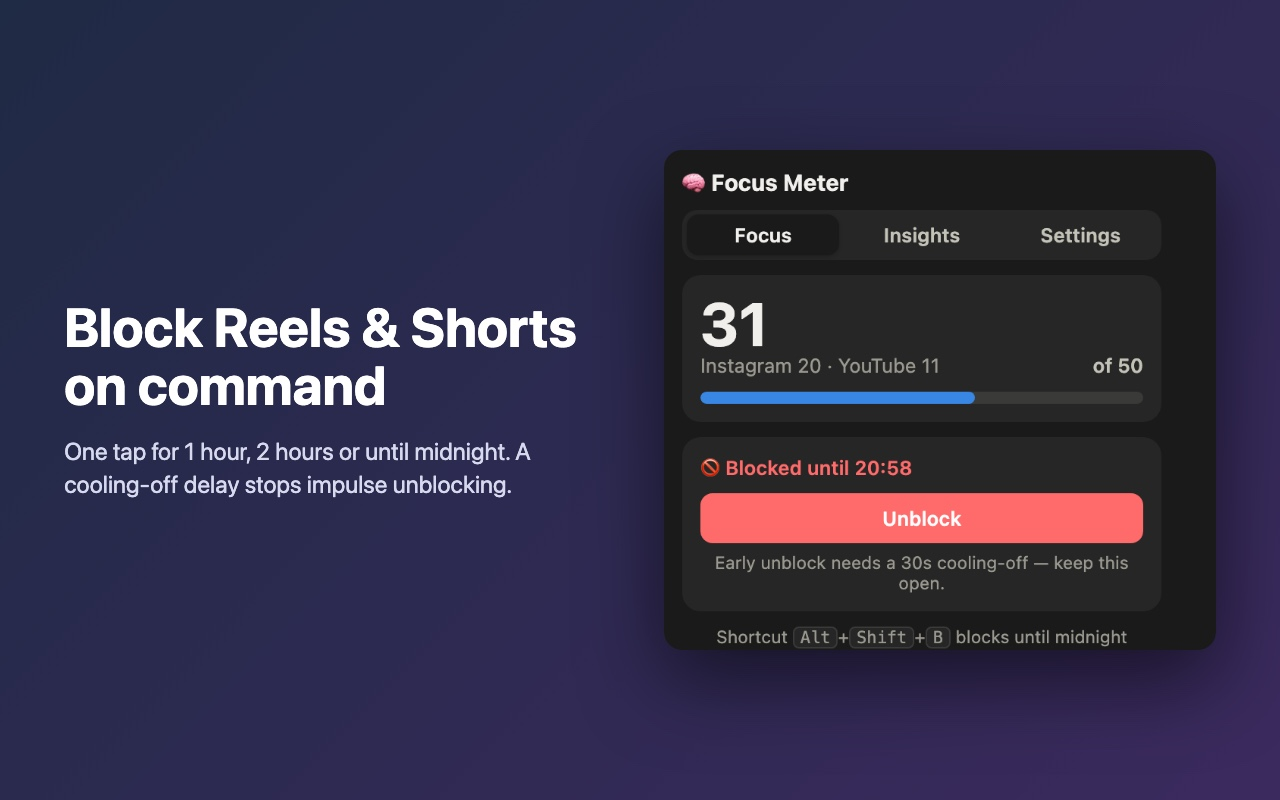
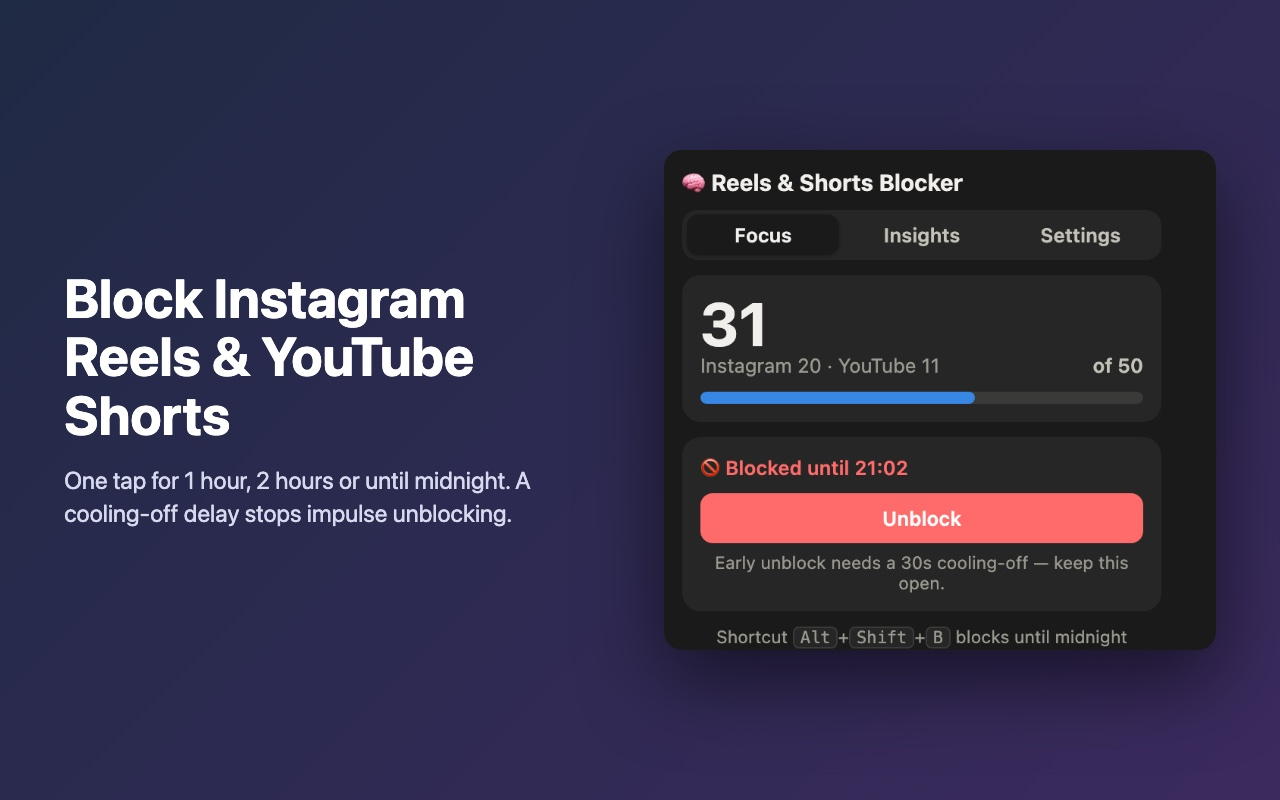
Rename to Reels & Shorts Blocker – Short-Form Video Blocker; update listing and screenshots

Changed region(s): [[0.0312, 0.3438, 0.4688, 0.6562], [0.5625, 0.2188, 0.75, 0.25], [0.6562, 0.5625, 0.7188, 0.5938]]

diff --git a/content.js b/content.js
@@ -245,14 +245,14 @@
         text.textContent = "You asked me to stop you. Go do something real 🌱";
         hint.textContent =
           scheduled
-            ? `Focus window ${settings.schedule_start}–${settings.schedule_end}. Change it in the Focus Meter popup.`
+            ? `Focus window ${settings.schedule_start}–${settings.schedule_end}. Change it in the extension popup.`
             : until > Date.now() + 5 * 365 * 24 * 3600 * 1000
-            ? "Open the Focus Meter popup to unblock."
-            : `Blocked until ${new Date(until).toLocaleTimeString([], { hour: "2-digit", minute: "2-digit" })}. Open the Focus Meter popup to unblock early.`;
+            ? "Open the extension popup to unblock."
+            : `Blocked until ${new Date(until).toLocaleTimeString([], { hour: "2-digit", minute: "2-digit" })}. Open the extension popup to unblock early.`;
       } else {
         title.textContent = "Daily limit reached";
         text.textContent = `${count} brainrot videos today — your limit is ${target}. Go touch grass 🌱`;
-        hint.textContent = "Unlocks at midnight. Turn off \"Hard block\" in the Focus Meter popup to disable.";
+        hint.textContent = "Unlocks at midnight. Turn off \"Hard block\" in the extension popup to disable.";
       }
       silenceVideos();
     }
@@ -304,7 +304,7 @@
       const thumb = document.createElement("div");
       thumb.className = "brc-feed-thumb";
       if (thumbUrl) thumb.style.backgroundImage = `url("${thumbUrl.replace(/"/g, "")}")`;
-      thumb.innerHTML = `<span>🧠 Video muted by Focus Meter</span>`;
+      thumb.innerHTML = `<span>🧠 Video muted by Reels & Shorts Blocker</span>`;
       for (const type of ["click", "pointerdown", "dblclick"]) {
         thumb.addEventListener(type, (e) => {
           e.preventDefault();

diff --git a/popup.js b/popup.js
@@ -1,4 +1,4 @@
-// Focus Meter popup — tabs: Focus (block + today), Insights (analytics), Settings.
+// Reels & Shorts Blocker popup — tabs: Focus (block + today), Insights (analytics), Settings.
 // All state lives in chrome.storage.local; nothing leaves the device.
 const DEFAULTS = {
   rot_icon_enabled: true,
@@ -297,7 +297,7 @@ function importData(file) {
       chrome.storage.local.set({ dailyStats: merged, statsBackfilled: true });
       $("dataMsg").textContent = `Imported ${Object.keys(incoming.dailyStats).length} days.`;
     } catch (_) {
-      $("dataMsg").textContent = "That doesn't look like a Focus Meter export.";
+      $("dataMsg").textContent = "That doesn't look like a Reels & Shorts Blocker export.";
     }
   };
   reader.readAsText(file);

diff --git a/popup.html b/popup.html
@@ -2,12 +2,12 @@
 <html>
 <head>
 <meta charset="utf-8">
-<title>Focus Meter</title>
+<title>Reels & Shorts Blocker</title>
 <link rel="stylesheet" href="popup-ui.css">
 </head>
 <body>
   <header>
-    <div class="brand">🧠 <b>Focus Meter</b></div>
+    <div class="brand">🧠 <b>Reels & Shorts Blocker</b></div>
     <nav role="tablist" id="tabs">
       <button role="tab" data-tab="focus" aria-selected="true">Focus</button>
       <button role="tab" data-tab="insights" aria-selected="false">Insights</button>

diff --git a/background.js b/background.js
@@ -1,4 +1,4 @@
-// Focus Meter — background service worker (fully offline, no server).
+// Reels & Shorts Blocker — background service worker (fully offline, no server).
 // Owns the swipe log in chrome.storage.local so counting is race-free across
 // tabs. Two stores:
 //   watchedShortform — raw swipe events, only the last ~2 days (drives the

diff --git a/STORE.md b/STORE.md
@@ -1,36 +1,38 @@
-# Chrome Web Store listing — Focus Meter v3.0.0
+# Chrome Web Store listing — Reels & Shorts Blocker v3.0.0
 
 ## Store listing tab
-**Name:** Focus Meter
-**Summary (max 132 chars):** Count and block Instagram Reels & YouTube Shorts on command. Daily limits, schedules and lifetime stats. 100% offline.
+**Name (manifest, max 75):** Reels & Shorts Blocker – Short-Form Video Blocker
+**Summary (max 132 chars):** Block Instagram Reels and YouTube Shorts on command. Set daily limits, schedules and see your stats. 100% offline, no account.
 **Category:** Productivity   **Language:** English
 
 **Detailed description:**
-Reels and Shorts are built to keep you scrolling. Focus Meter puts you back in control.
+Stop doomscrolling. Reels & Shorts Blocker is a short-form video blocker for Instagram Reels and YouTube Shorts. Turn the block on whenever you want, set a daily limit, and see exactly how much short-form content you watch.
 
-BLOCK ON COMMAND
+BLOCK REELS & SHORTS ON COMMAND
 • One tap in the toolbar popup: block for 1 hour, 2 hours, until midnight, or until you unblock
-• Full-screen block wall pauses the video and stops scrolling to the next one
-• Shortcut: Alt+Shift+B blocks until midnight
+• Full-screen block screen pauses the video and stops scrolling to the next one
+• Keyboard shortcut: Alt+Shift+B blocks until midnight
 • Cooling-off delay before you can unblock early, so impulse can't win
 • Daily schedule (e.g. 10pm–6am) blocks automatically
-• Hides the Shorts / Reels buttons and shelves while a block is on
+• Hides the Shorts and Reels buttons and shelves while a block is on
 
-KNOW YOUR HABIT
-• Floating counter shows how many Reels/Shorts you've swiped today
-• Insights tab: daily/weekly/monthly chart, average per day, heaviest day, under-target streak, peak hour, lifetime total
-• Set a daily target; optional hard block when you reach it
-• Optional effects: rotting-brain icon, screen fade and milestone popups past your target
+TRACK YOUR SHORT-FORM SCREEN TIME
+• Floating counter shows how many Reels and Shorts you've swiped today
+• Insights tab: daily, weekly and monthly charts, average per day, heaviest day, under-target streak, peak hour and lifetime total
+• Set a daily target, with an optional hard block when you reach it
+• Optional effects: rotting-brain icon, screen fade and milestone popups once you pass your target
 
-INSTAGRAM FEED
-• Optionally freeze and mute autoplaying videos in the feed (thumbnail instead)
+INSTAGRAM FEED CONTROL
+• Optionally freeze and mute autoplaying videos in your Instagram feed (a thumbnail is shown instead)
 
 PRIVATE BY DESIGN
 • No account, no server, no tracking, no network requests
-• Only swipe counts are stored, locally on your device — never video IDs or history
-• Export / import a backup from Settings
+• Only swipe counts are stored, locally on your device — never video IDs, titles or watch history
+• Export and import a backup from Settings
 
-Focus Meter is an independent tool and is not affiliated with Instagram, Meta or YouTube/Google.
+Great for students, focus and productivity, digital detox and cutting down screen time.
+
+Reels & Shorts Blocker is an independent tool and is not affiliated with, endorsed by or sponsored by Instagram, Meta, YouTube or Google.
 
 ## Assets (in store-assets/)
 - Icon 128x128: icons/icon-128.png (already in the package)
@@ -38,7 +40,7 @@ Focus Meter is an independent tool and is not affiliated with Instagram, Meta or
 - Small promo tile 440x280 (optional, not generated)
 
 ## Privacy practices tab
-**Single purpose:** Count and block Instagram Reels and YouTube Shorts to help users reduce short-form video use.
+**Single purpose:** Block and count Instagram Reels and YouTube Shorts to help users reduce short-form video use.
 
 **Permission justifications**
 - storage: Saves the user's swipe counts and settings locally on their device.

diff --git a/PRIVACY.md b/PRIVACY.md
@@ -1,8 +1,8 @@
-# Focus Meter — Privacy Policy
+# Reels & Shorts Blocker — Privacy Policy
 
 _Last updated: 12 November 2026_
 
-Focus Meter is a browser extension that counts and blocks Instagram Reels and
+Reels & Shorts Blocker is a browser extension that counts and blocks Instagram Reels and
 YouTube Shorts. It is designed to work entirely on your device.
 
 ## What it stores

diff --git a/README.md b/README.md
@@ -1,4 +1,5 @@
-# Focus Meter 🧠 (formerly Brain Rot Counter)
+# Reels & Shorts Blocker – Short-Form Video Blocker 🧠
+_(formerly Brain Rot Counter / Focus Meter)_
 
 Chrome extension that counts the Instagram Reels and YouTube Shorts you swipe
 through and can **block them on command**. Fully offline — no account, no
